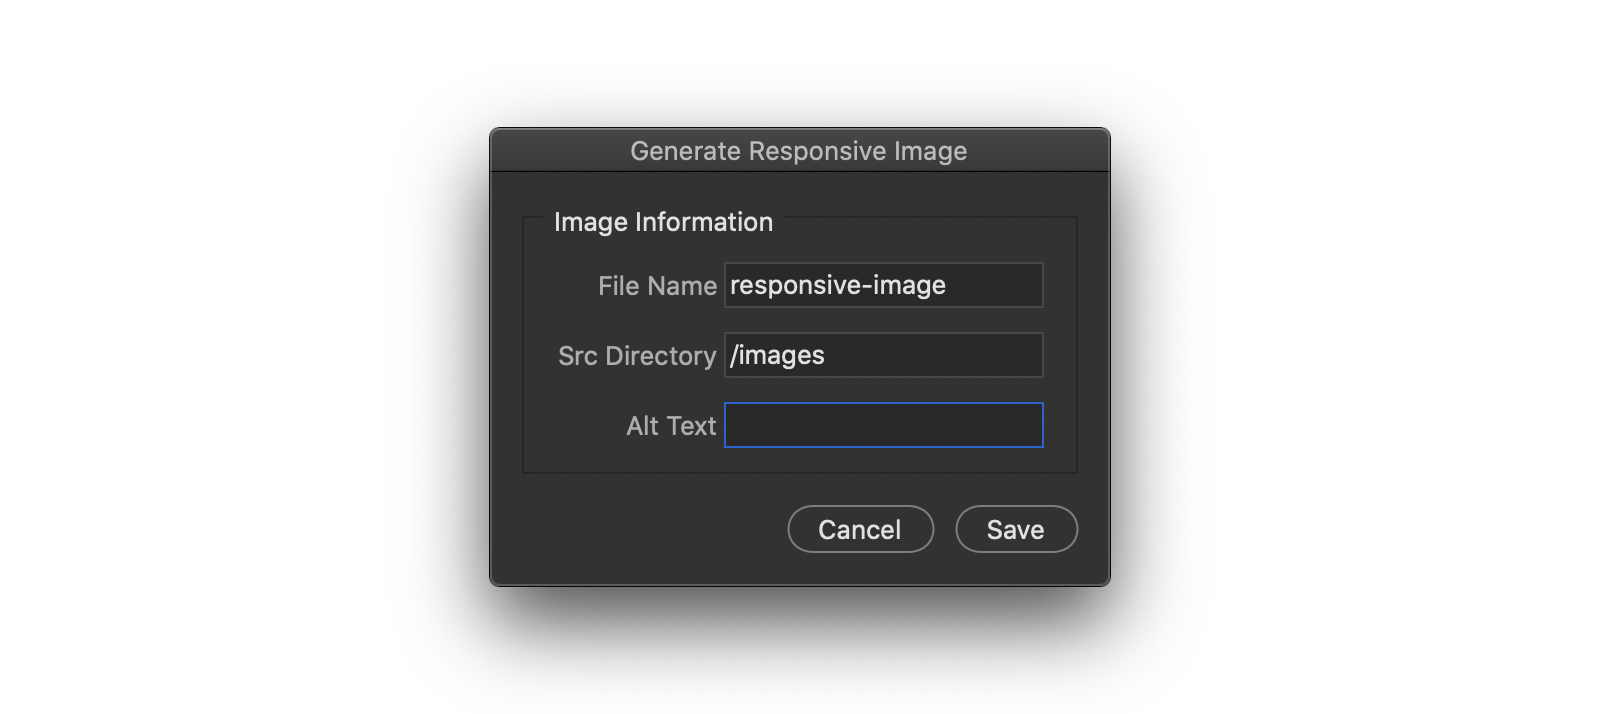
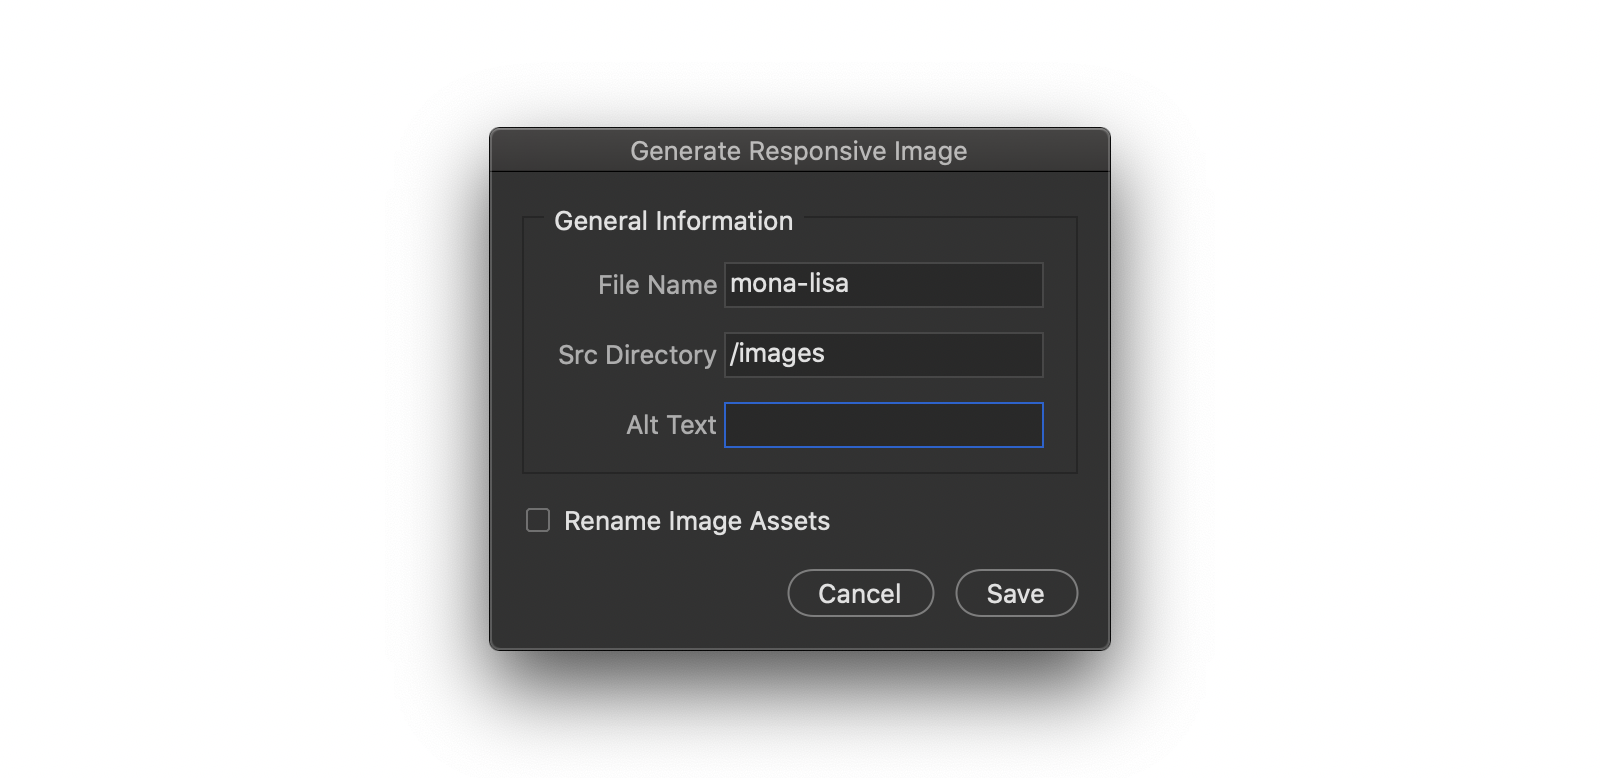
Updated README.md

diff --git a/README.md b/README.md
@@ -51,17 +51,20 @@ We're happy with our work, so we save our document and then the Responsive Image
 
 ![Responsive Image Generator's dialog](./images/usage-support-2.png)
 
-**Note:** The Responsive Image Generator will name your snippet `responsive-image.html` and write each image's `src` directory as `/images` by default. Configure these if necessary, to meet your own requirements.
+**Note:** The Responsive Image Generator will name your snippet consistently with your Photoshop document's name and write each image's `src` directory as `/images` by default. Configure these if necessary, to meet your own requirements.
 
 We enter `"The Mona Lisa"` as `alt` text and press `Save`.
 
-This results in `responsive-image.html` being generated in the `mona-lisa-assets` directory, alongside `mona-lisa.psd`. The file will contain your responsive image snippet that you can leverage in your own projects:
+This results in `mona-lisa.html` being generated in the `mona-lisa-assets` directory, alongside `mona-lisa.psd`. The file will contain your responsive image snippet that you can leverage in your own projects:
 
 ```html
 <img
   alt="The Mona Lisa"
   src="/images/mona-lisa.jpg"
-  srcset="/images/mona-lisa-@2x.jpg 2x, /images/mona-lisa-@3x.jpg 3x"
+  srcset="
+    /images/mona-lisa-@2x.jpg 2x,
+    /images/mona-lisa-@3x.jpg 3x
+  "
 />
 ```
 
@@ -95,7 +98,7 @@ The snippet generated in this instance leverages the `picture` and `source` elem
   <source
     media="(min-width: 48.0625em)"
     srcset="
-      /images/mona-lisa-lge.jpg     1x,
+      /images/mona-lisa-lge.jpg 1x,
       /images/mona-lisa-lge-@2x.jpg 2x,
       /images/mona-lisa-lge-@3x.jpg 3x
     "
@@ -103,7 +106,7 @@ The snippet generated in this instance leverages the `picture` and `source` elem
   <source
     media="(min-width: 30.0625em)"
     srcset="
-      /images/mona-lisa-med.jpg     1x,
+      /images/mona-lisa-med.jpg 1x,
       /images/mona-lisa-med-@2x.jpg 2x,
       /images/mona-lisa-med-@3x.jpg 3x
     "
@@ -111,7 +114,10 @@ The snippet generated in this instance leverages the `picture` and `source` elem
   <img
     alt="The Mona Lisa"
     src="/images/mona-lisa-sml.jpg"
-    srcset="/images/mona-lisa-sml-@2x.jpg 2x, /images/mona-lisa-sml-@3x.jpg 3x"
+    srcset="
+      /images/mona-lisa-sml-@2x.jpg 2x,
+      /images/mona-lisa-sml-@3x.jpg 3x
+    "
   />
 </picture>
 ```
